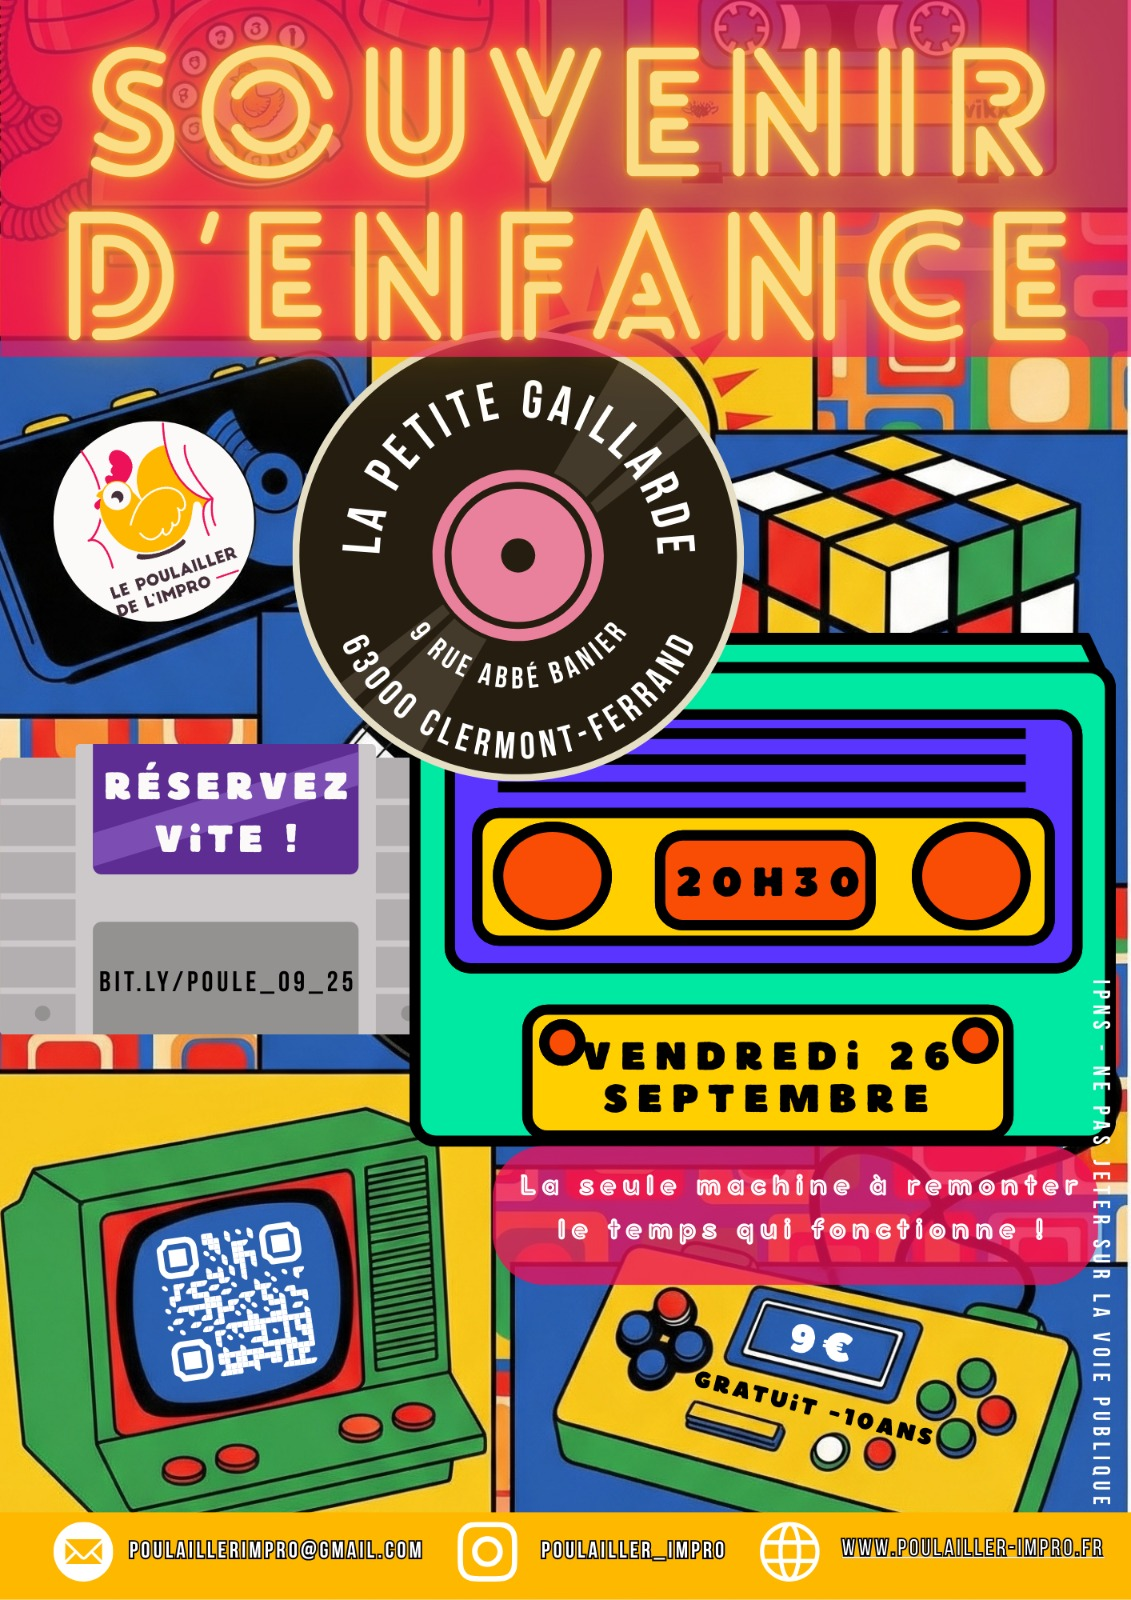
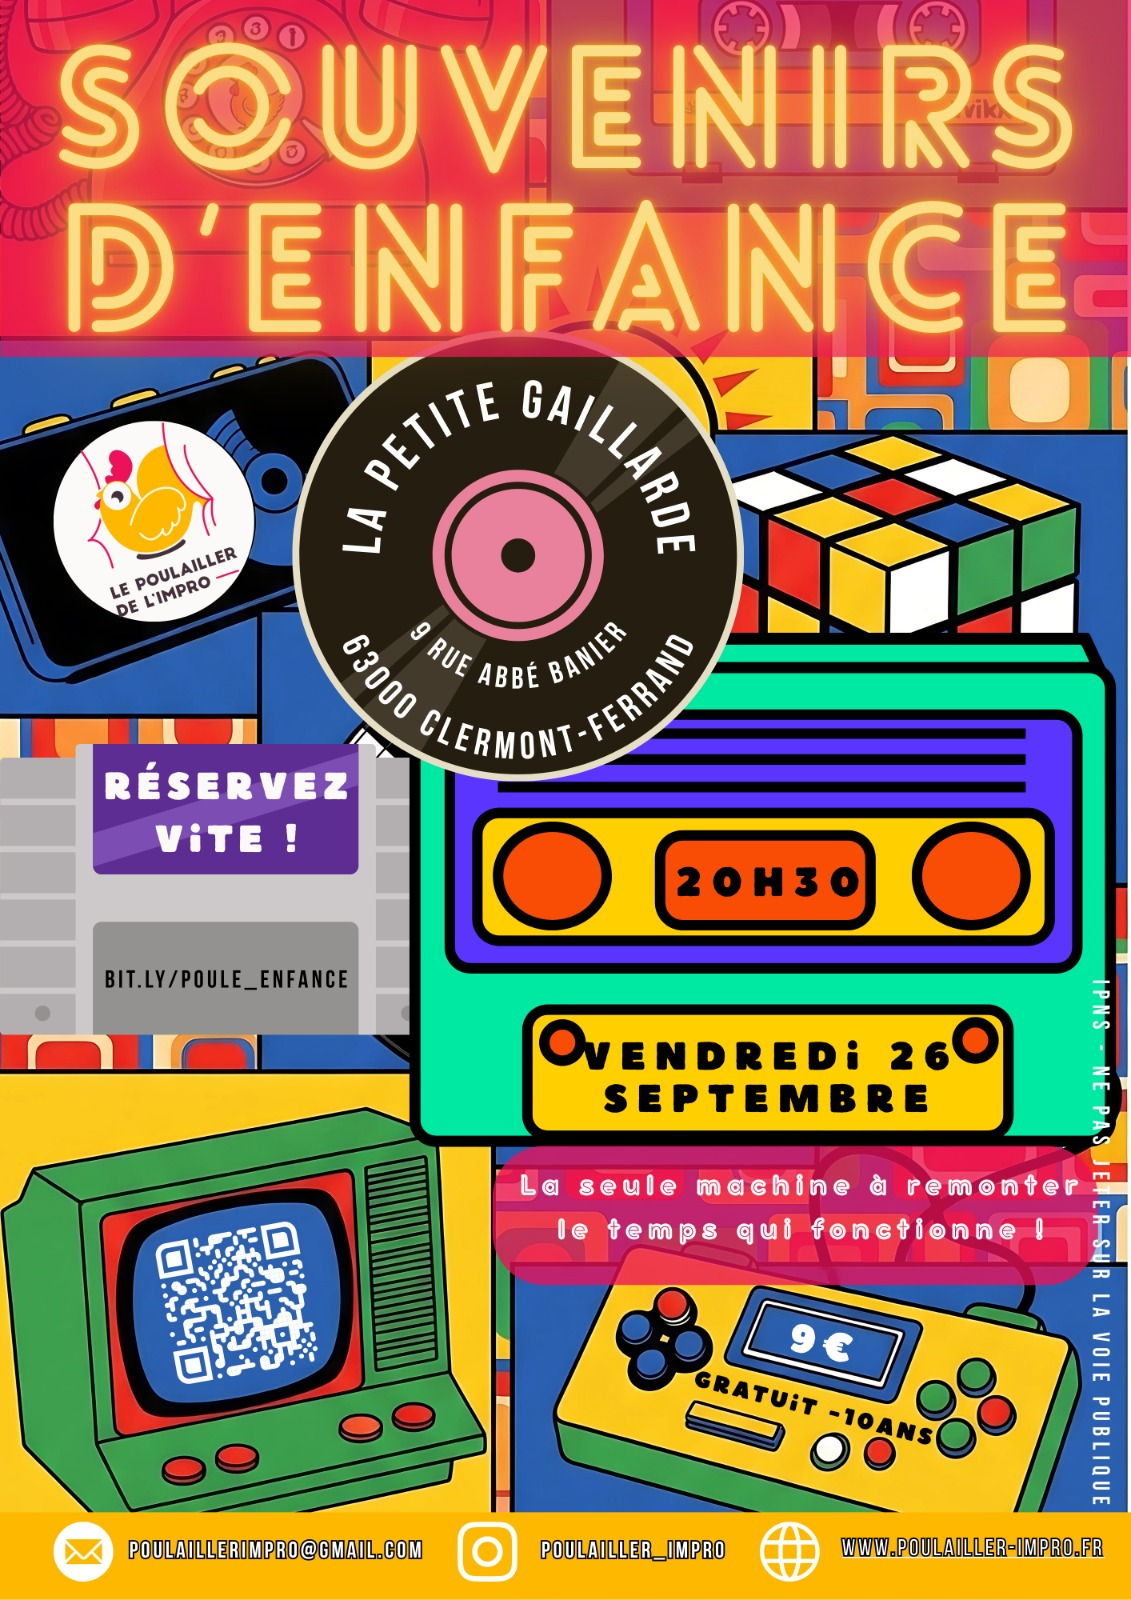
Update "souvenirs d'enfance" show

diff --git a/src/spectacles/2025-09-26-souvenirs-enfance-2.md b/src/spectacles/2025-09-26-souvenirs-enfance-2.md
@@ -10,7 +10,7 @@ place: La Petite Gaillarde • Clermont-Ferrand
 description:
 price: 9
 image: ../../assets/img/affiche-20250926-souvenir-enfance-2.jpeg
-buy_link:
+buy_link: https://www.helloasso.com/associations/le-poulailler-de-l-impro/evenements/spectacle-d-improvisation-souvernirs-d-enfance
 ---
 
 # Souvenirs d'enfance 2
